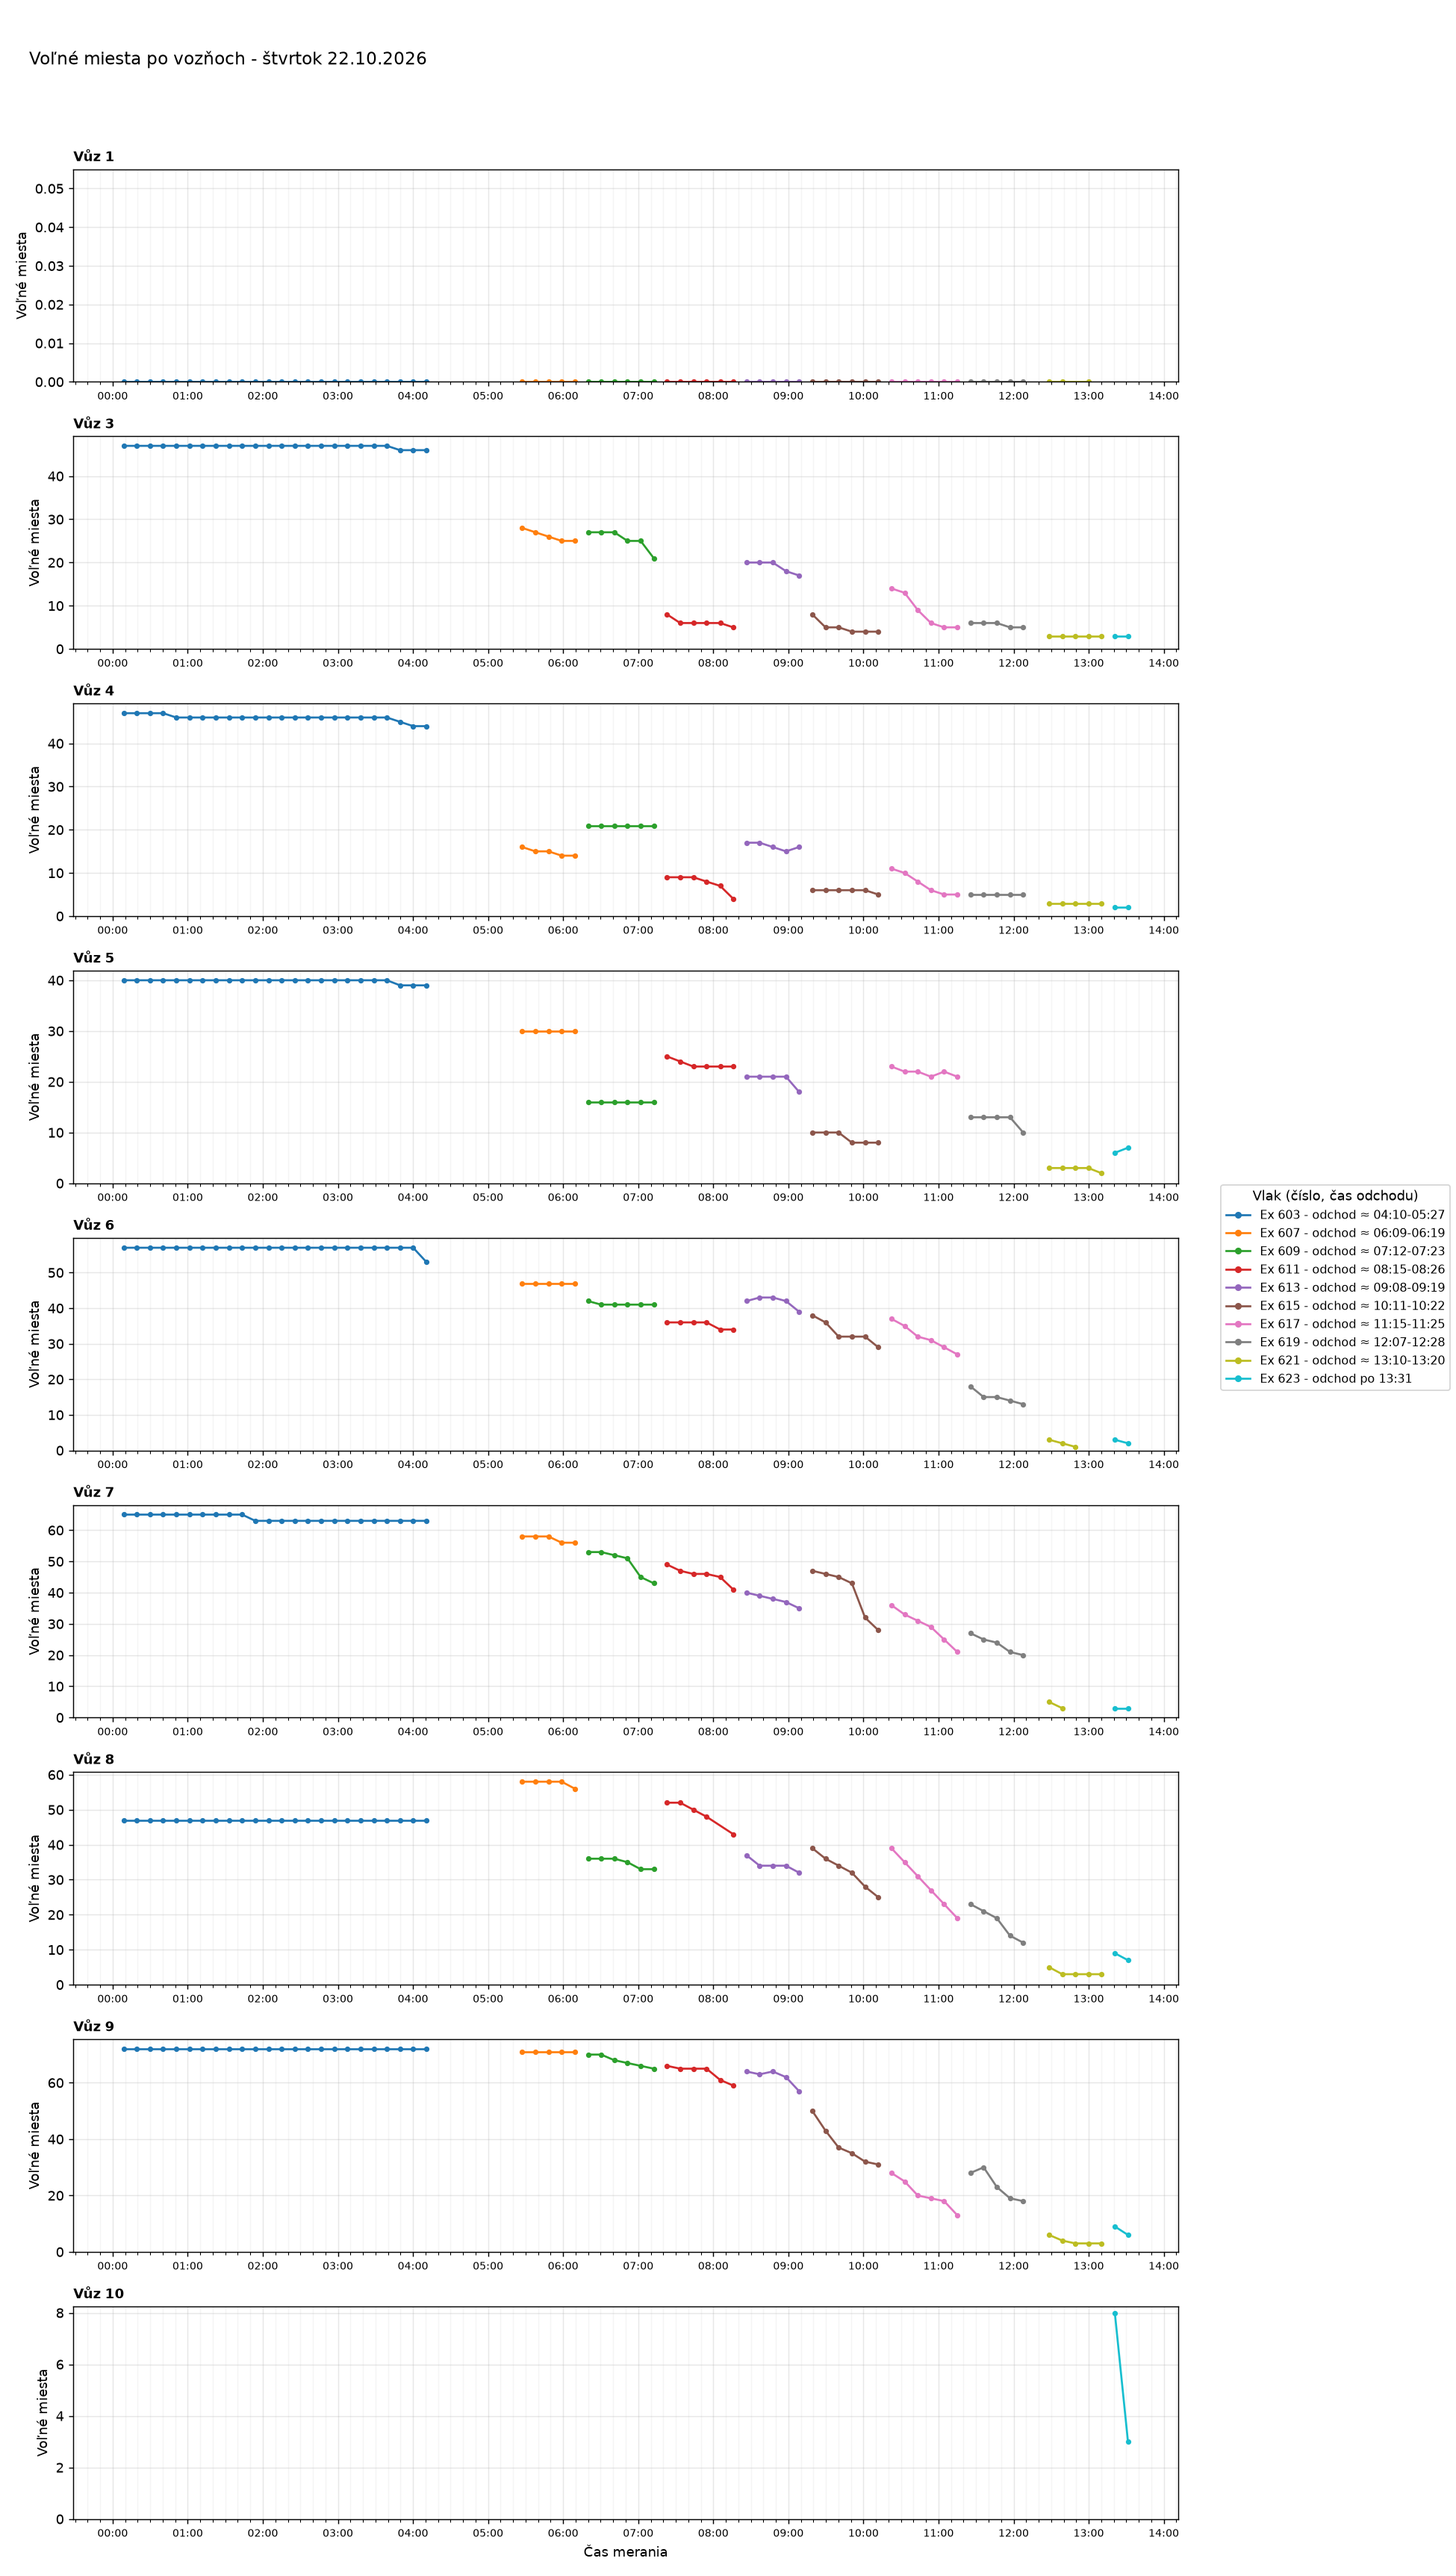
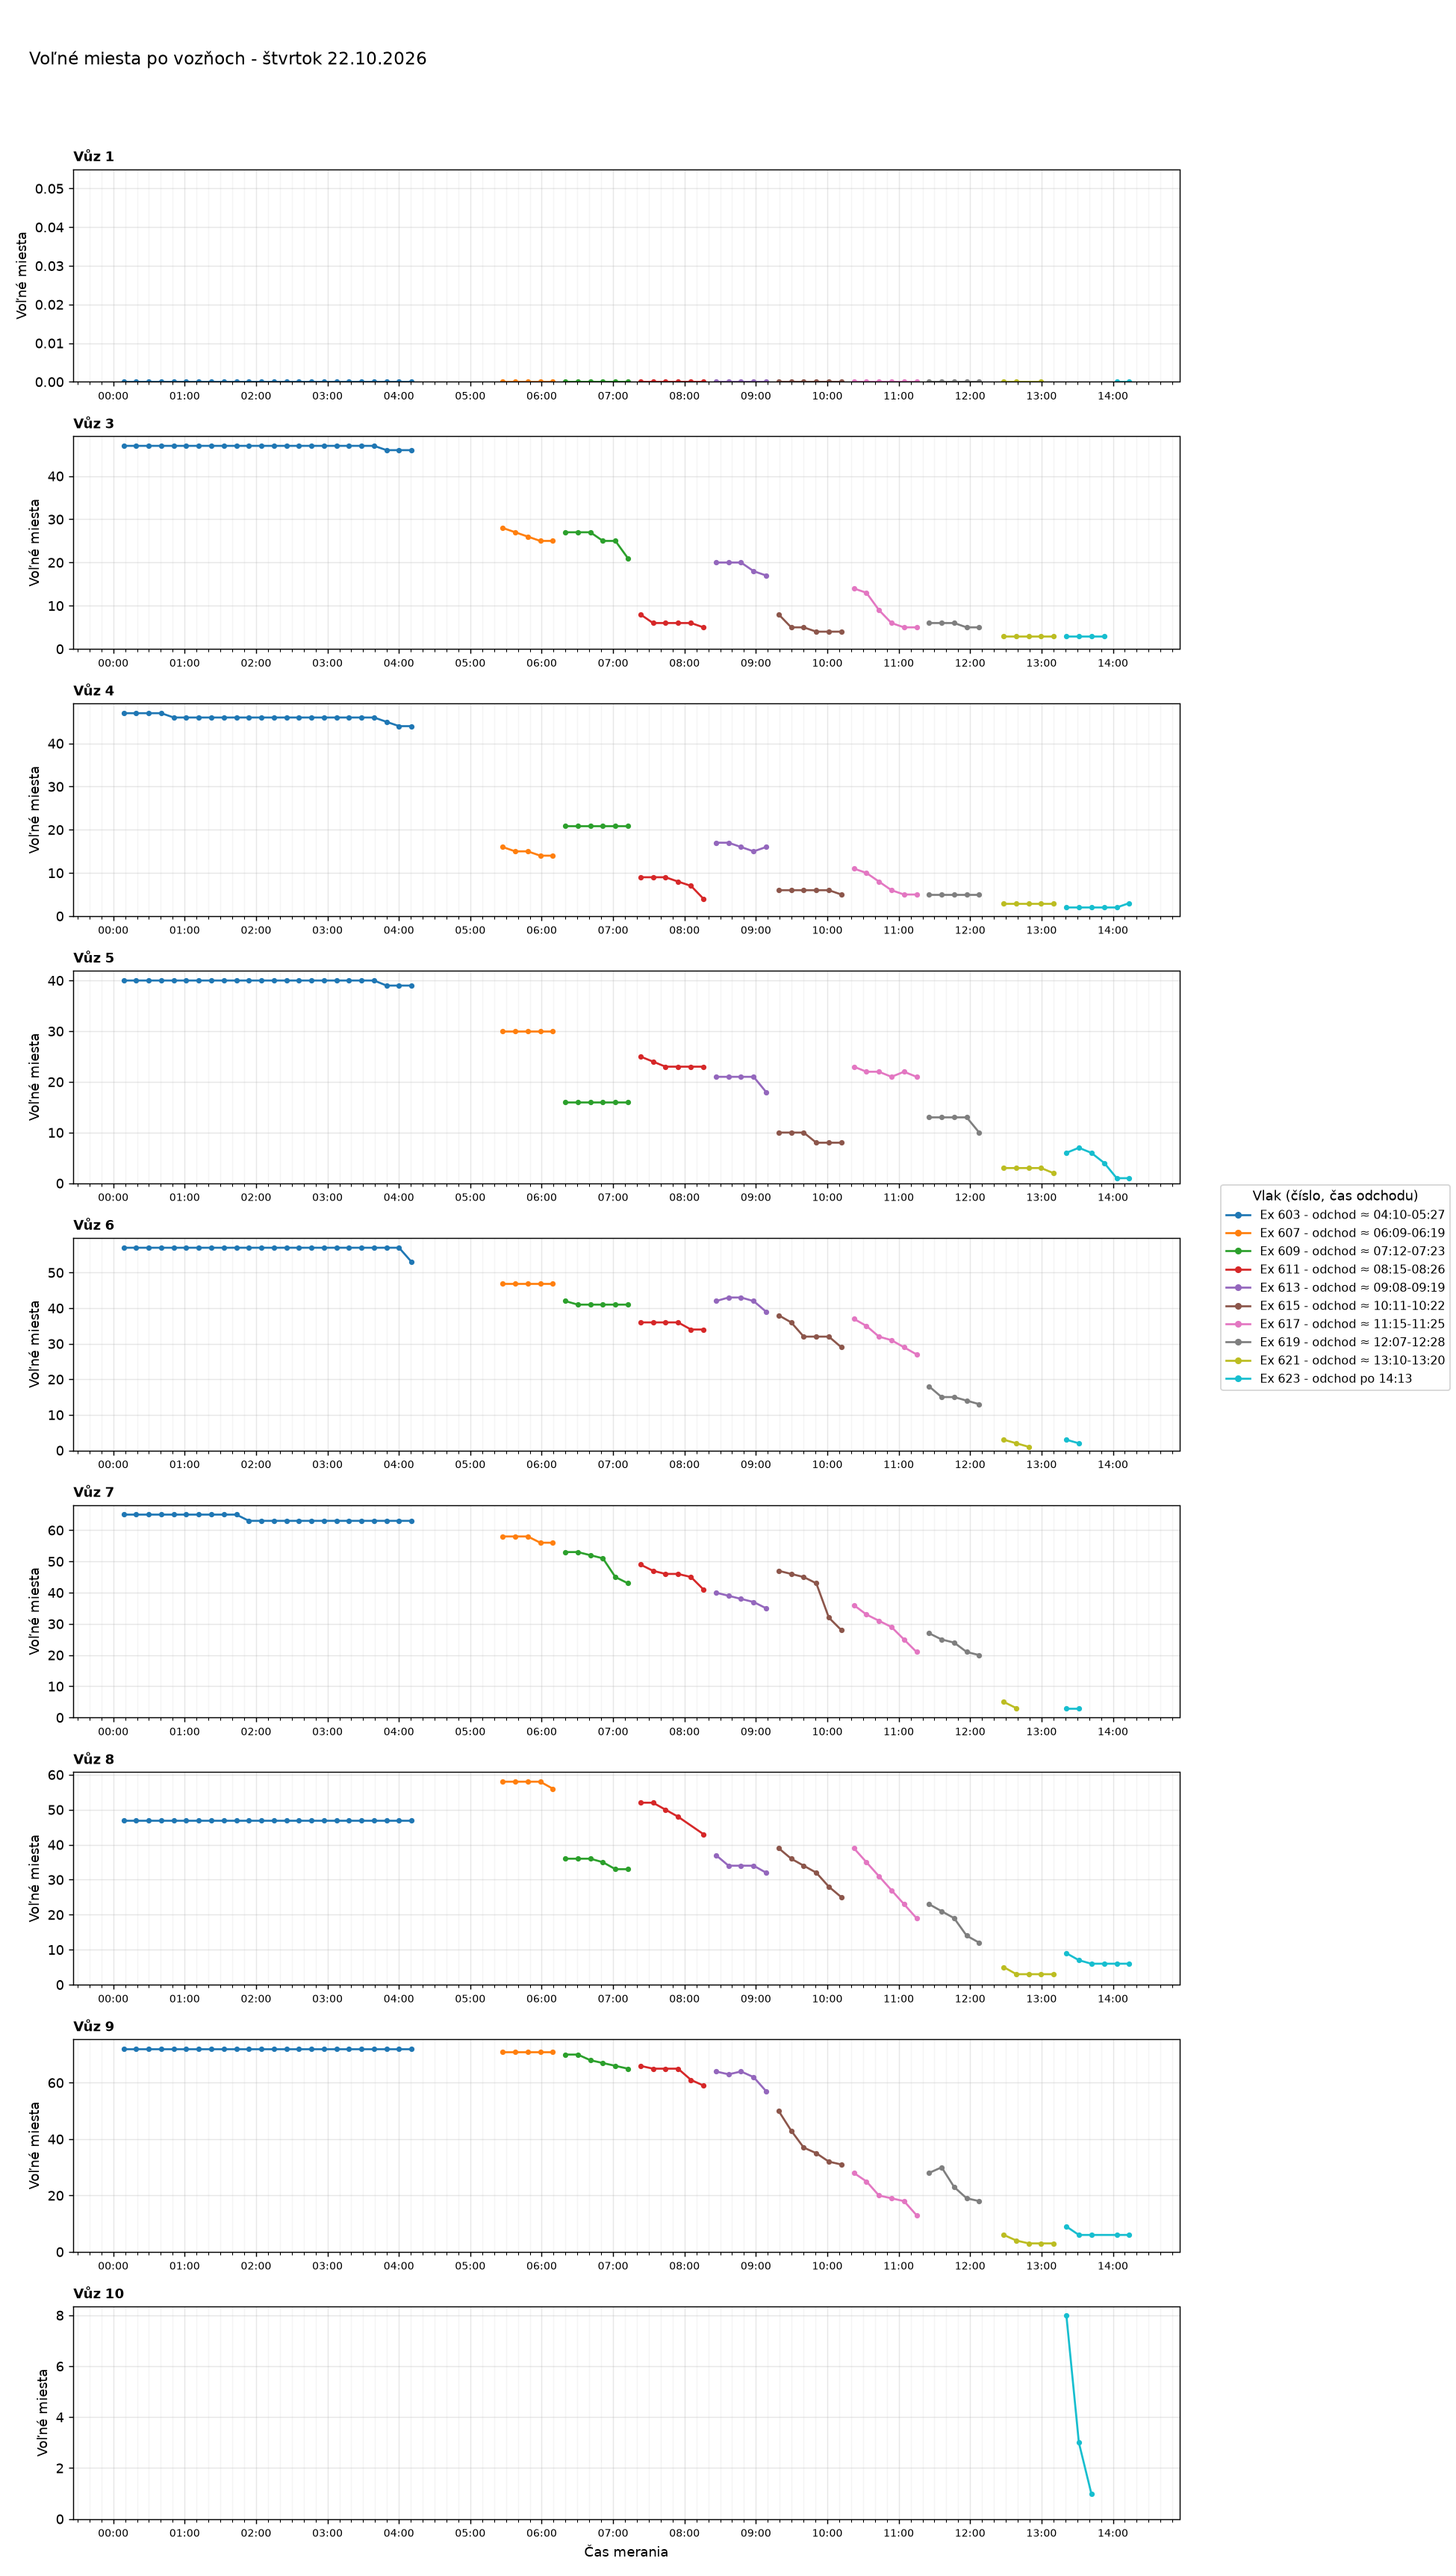
Aktualizácia grafov 2026-10-22 14:37

diff --git a/index.html b/index.html
@@ -35,7 +35,7 @@ h2.oddiel{margin:36px 0 0;font-size:1.4rem}
 <body>
 <main>
 <h1>Voľné miesta vo vlakoch</h1>
-<p class="muted">Posledné meranie: 22.10.2026 13:31 ·
+<p class="muted">Posledné meranie: 22.10.2026 14:13 ·
 <a href="data/obsadenost_data.csv">stiahnuť dáta (CSV)</a></p>
 <nav class="nav"><a href="#suhrn">Súhrn</a><a href="#statistiky">Štatistiky</a><a href="#historia">História grafov</a></nav>
 
@@ -44,7 +44,7 @@ h2.oddiel{margin:36px 0 0;font-size:1.4rem}
 <div class="tablewrap"><table>
 <thead><tr><th>Deň</th><th>Meraní</th><th>Vlakov</th><th>Čas meraní</th></tr></thead>
 <tbody>
-<tr><td><a href="#d2026-10-22">štvrtok 22.10.2026</a></td><td>70</td><td>10</td><td>00:08-13:31</td></tr>
+<tr><td><a href="#d2026-10-22">štvrtok 22.10.2026</a></td><td>74</td><td>10</td><td>00:08-14:13</td></tr>
 <tr><td><a href="#d2026-10-21">streda 21.10.2026</a></td><td>96</td><td>15</td><td>00:10-23:58</td></tr>
 <tr><td><a href="#d2026-10-20">utorok 20.10.2026</a></td><td>34</td><td>7</td><td>13:55-23:50</td></tr>
 </tbody></table></div>
